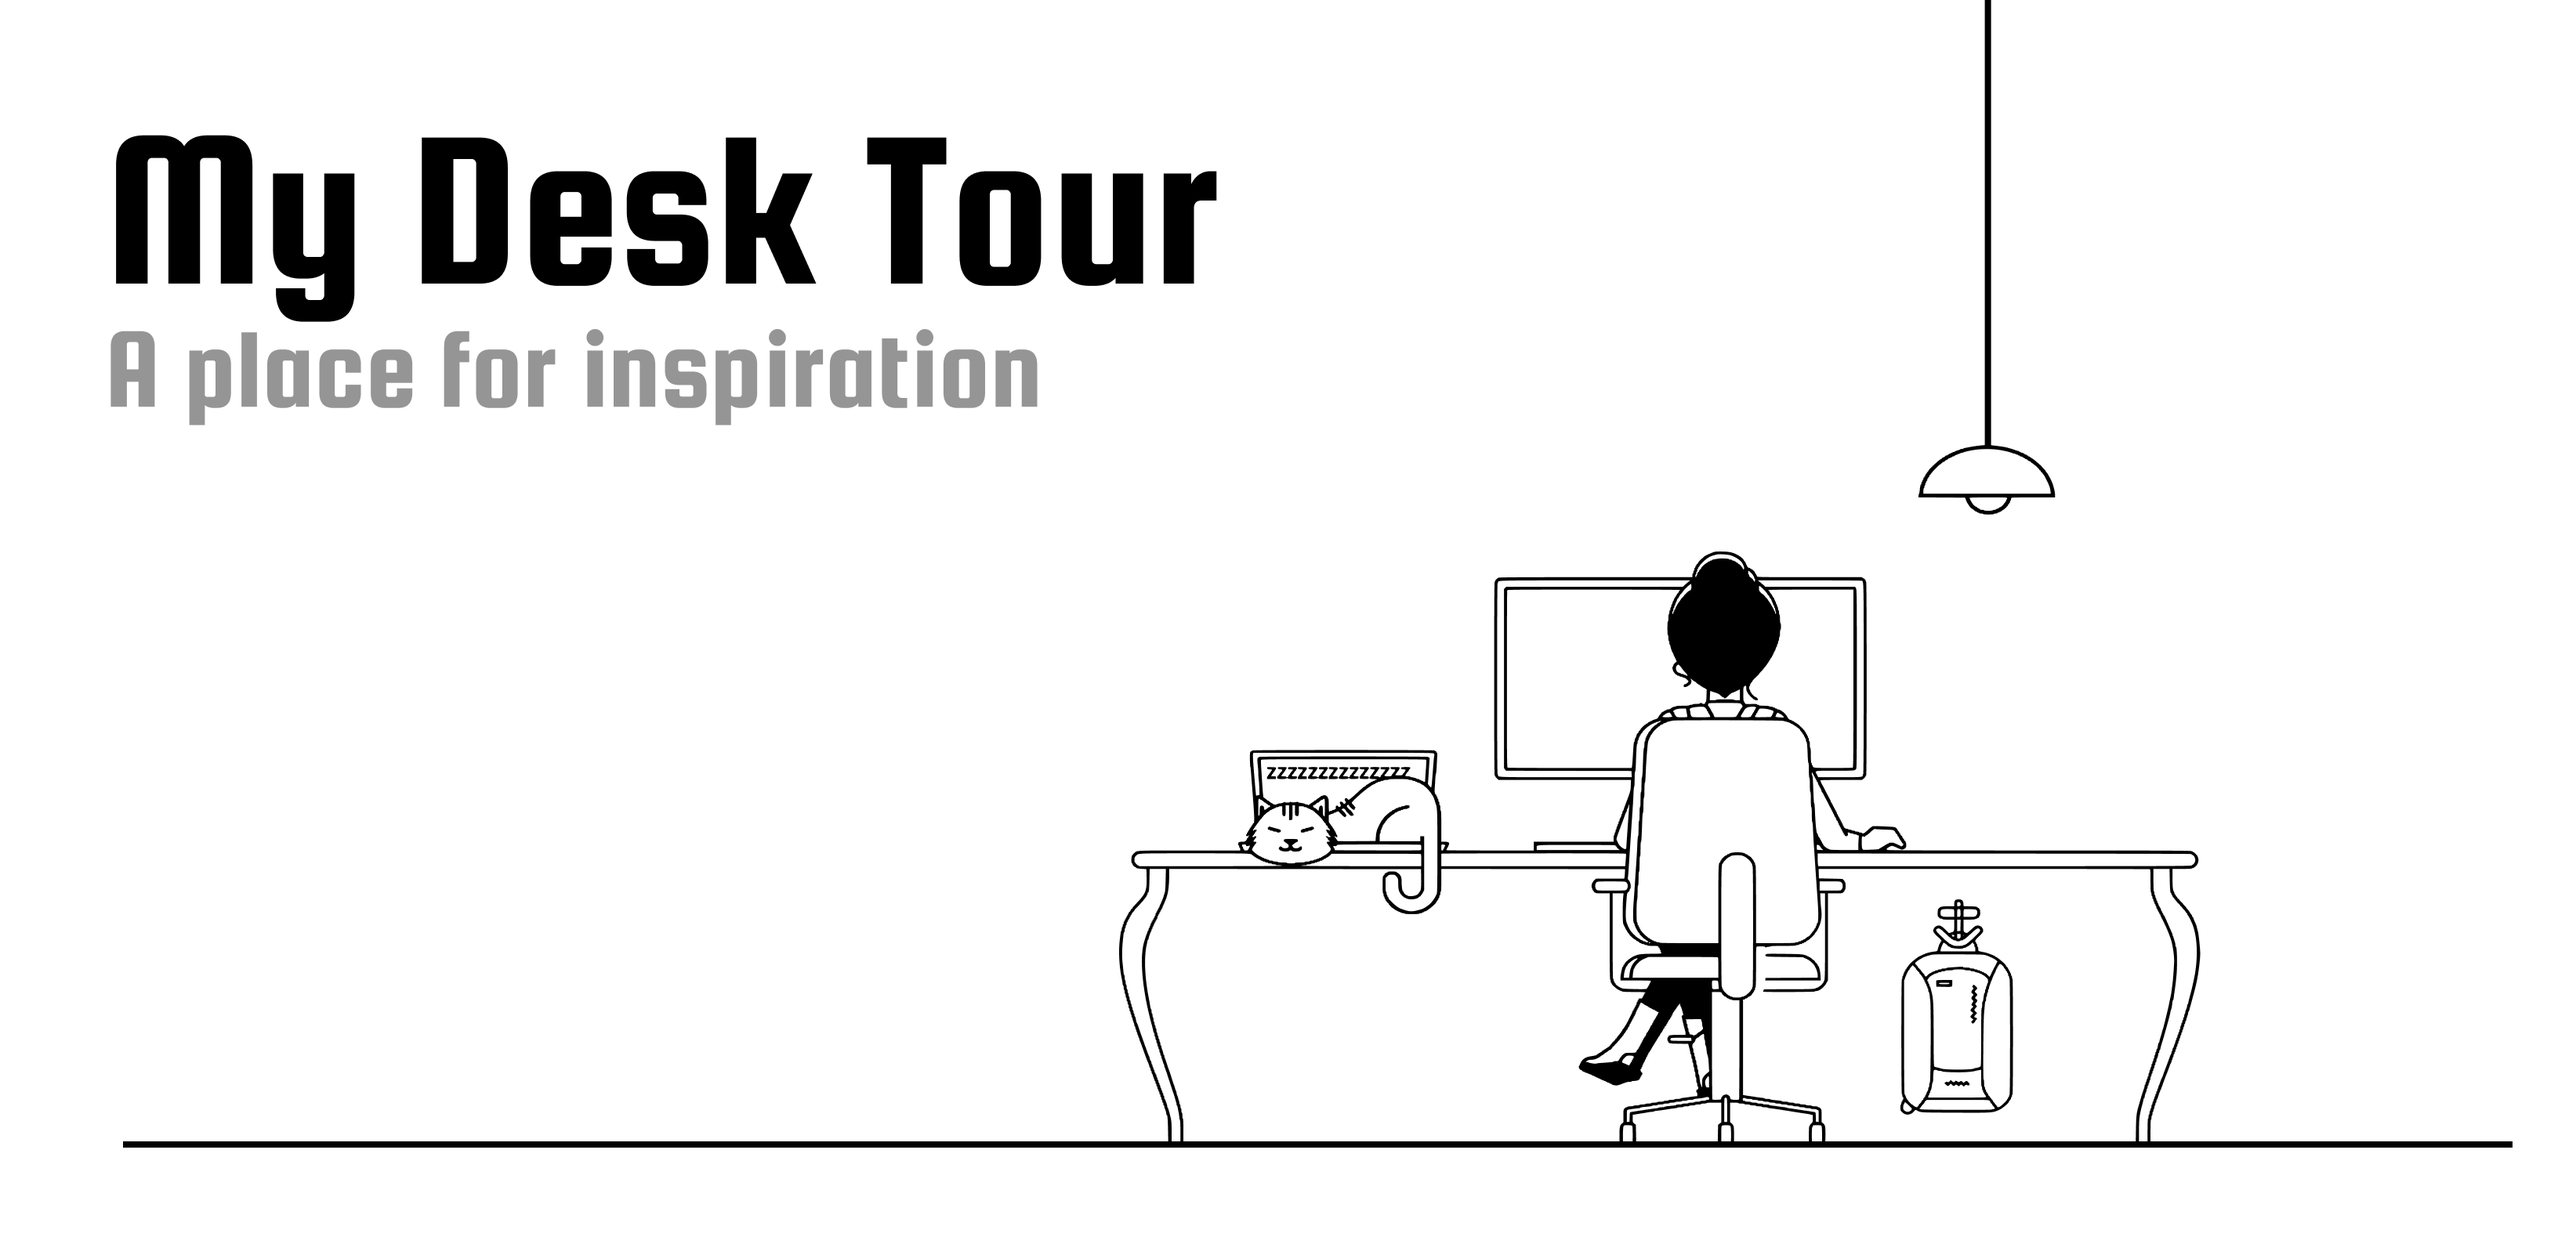
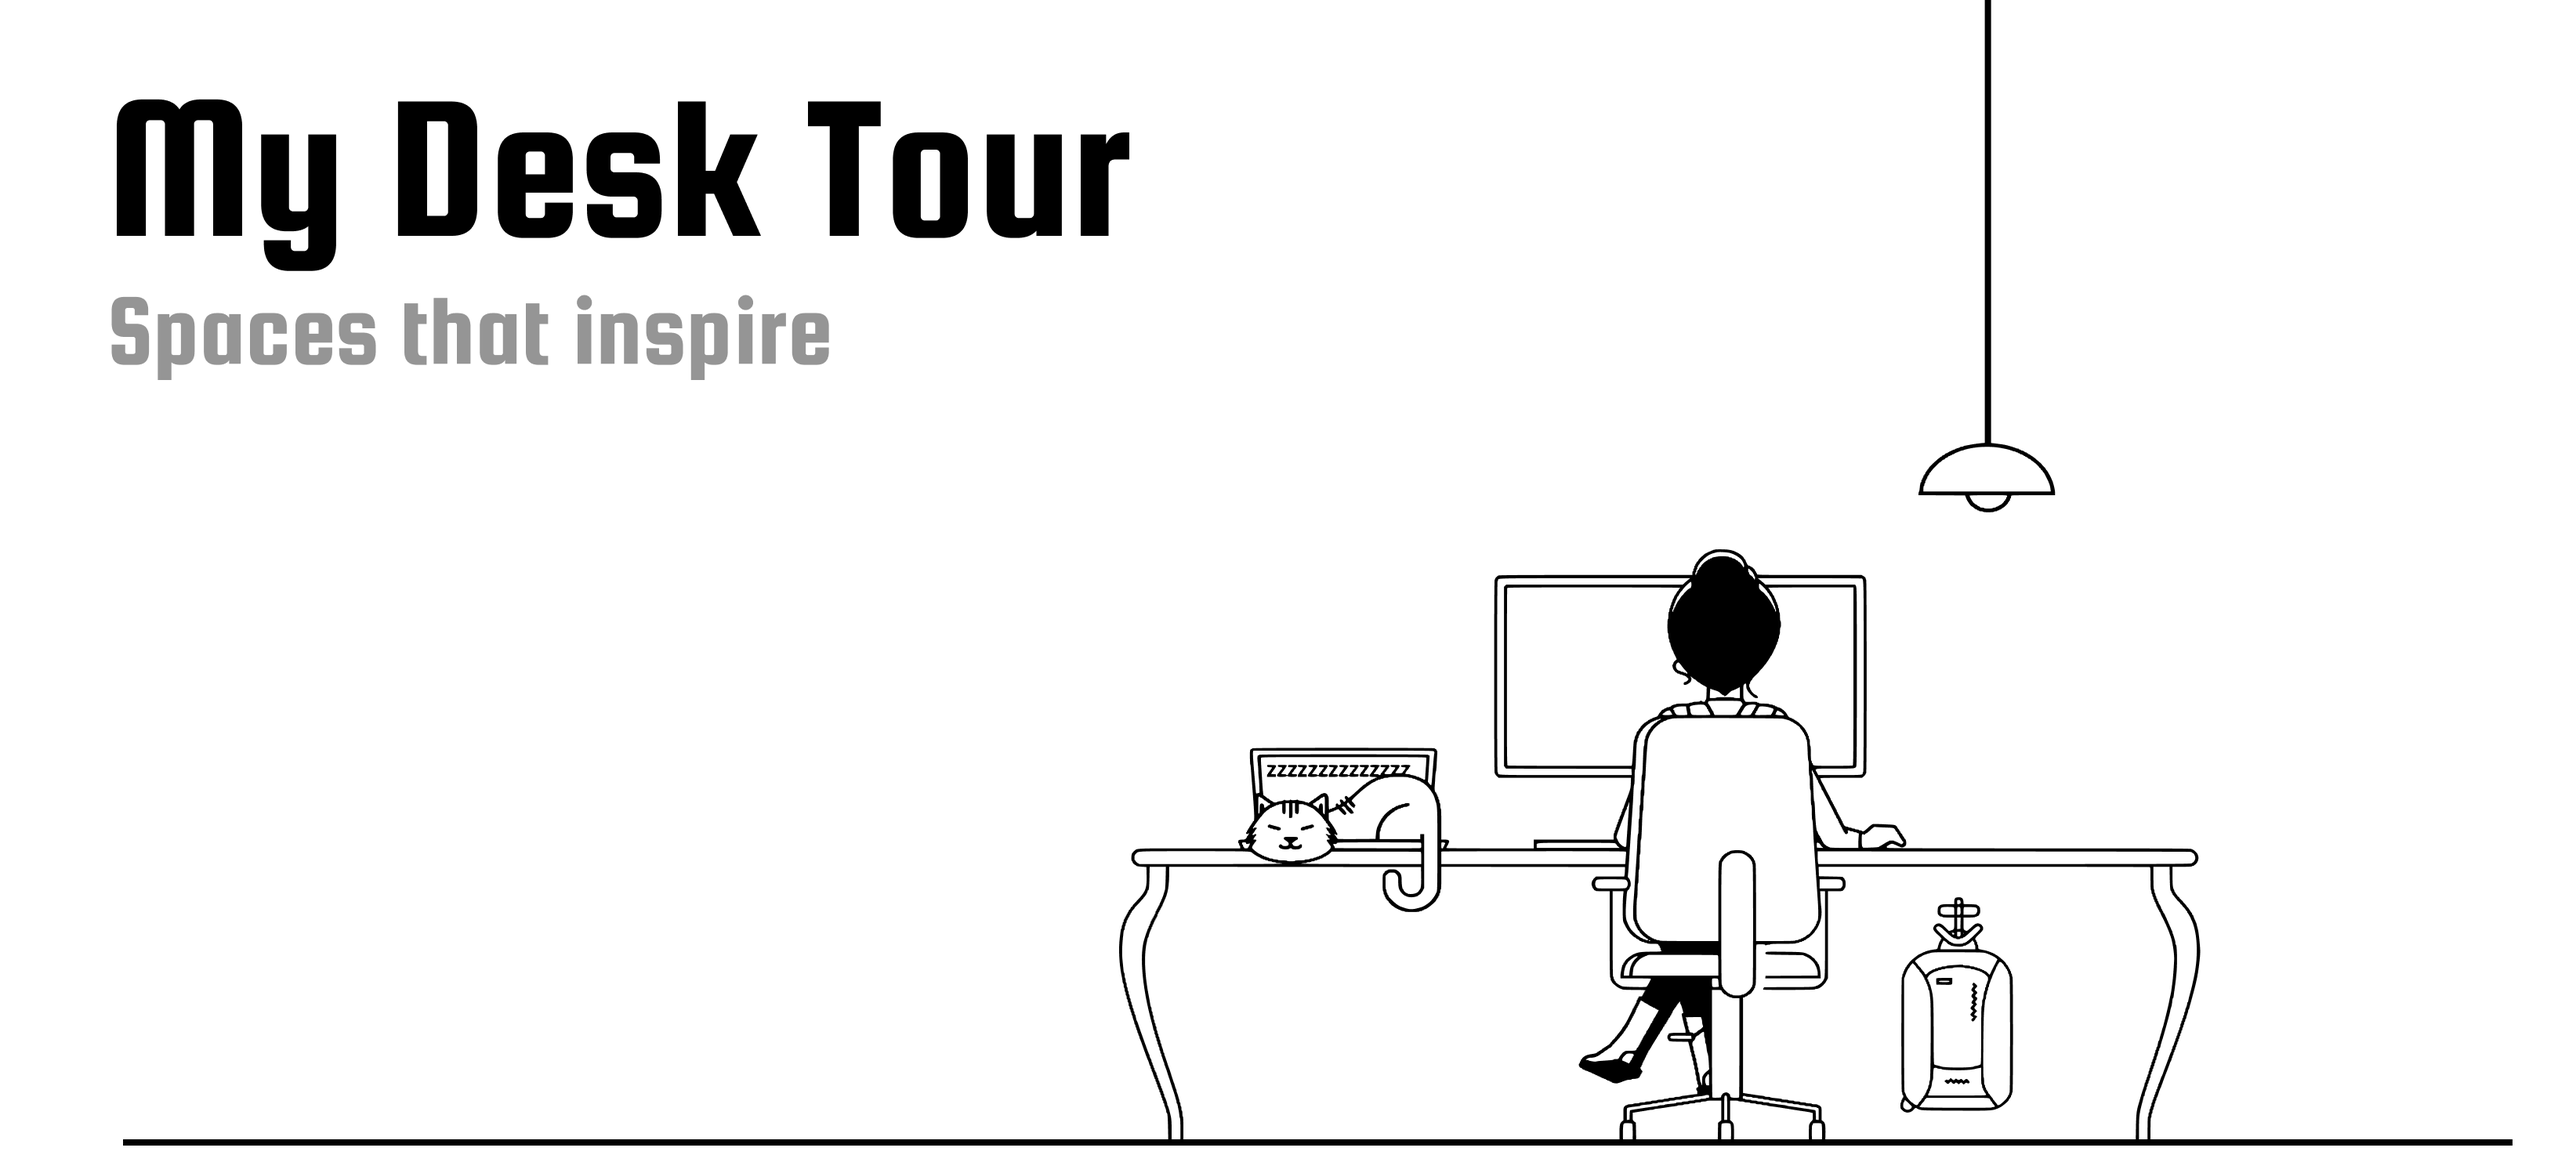
about page description and some minor ui changes

Changed region(s): [[0.0621, 0.4302, 0.962, 0.9833], [0.031, 0.0615, 0.4965, 0.338], [0.7448, 0.3687, 0.8068, 0.4302]]

diff --git a/src/pages/About/About.js b/src/pages/About/About.js
@@ -5,33 +5,23 @@ export default function About() {
     return (
         <div className="body">
             <div className="About">
-            <p>
-            Lorem ipsum dolor sit amet, consectetur adipiscing elit. Vestibulum tincidunt, justo non fringilla vulputate, elit quam faucibus mi, non gravida sapien augue sed metus.
-            Nullam tincidunt urna ante, sed elementum erat tincidunt eget. Etiam mattis sed risus sed cursus. Pellentesque laoreet eros arcu, quis efficitur nunc blandit nec. 
-            Proin ut libero ut metus fringilla efficitur eget in nibh. Etiam fringilla, nulla nec pretium luctus, nunc est consectetur tellus, ac finibus turpis nibh ac neque. 
-            Proin vitae aliquet nunc, a egestas turpis. Morbi consectetur vestibulum leo a consectetur. Quisque pulvinar tellus sem, nec facilisis tellus tincidunt nec. 
-            Vivamus eu metus magna. In ut molestie massa, ut laoreet felis. Integer eleifend porta erat a euismod. Phasellus gravida, ipsum in mattis commodo, nibh leo dignissim quam, 
-            eget posuere ex libero vitae nulla. Nam sapien neque, viverra a varius sit amet, finibus vel diam. Phasellus commodo rutrum odio, id sollicitudin magna tincidunt eget. 
-            Mauris in velit vitae sapien ultricies convallis.
-            </p>
-            <p>
-            Donec at tincidunt turpis, et dictum erat. Nunc et eros varius, dictum diam a, congue metus. Mauris eget fringilla diam. Pellentesque dictum tincidunt ex in tincidunt. 
-            Vivamus sollicitudin tristique sem, ac tristique tortor laoreet in. Proin semper mauris nunc. Cras ac dui a mi porta pharetra quis eu ex.
-            </p>
-
-            <p>
-            Vivamus iaculis et nisl quis interdum. Fusce pretium tortor purus, ut iaculis libero sodales vitae. Praesent finibus mauris nulla, quis tempor nibh convallis eu. 
-            Proin nec hendrerit est. Sed ut bibendum urna. Donec sagittis iaculis nisl ut pulvinar. Phasellus dapibus pharetra odio, ac egestas orci molestie vel. 
-            Phasellus turpis erat, tempus at imperdiet id, egestas in quam. Ut cursus feugiat dui, ac dapibus justo euismod id. Maecenas volutpat vehicula neque, in sodales augue vehicula nec. Pellentesque tincidunt porta mauris nec tristique. Sed ornare congue blandit.
-            </p>
-
-            <p>
-            Suspendisse a risus nibh. Donec in sagittis est, a facilisis magna. Pellentesque blandit sollicitudin lacinia. Donec accumsan vitae massa ut blandit. 
-            Quisque egestas malesuada ante a fermentum. Sed quis facilisis massa. Quisque tempor pretium leo, ut sollicitudin arcu dignissim in. 
-            Quisque non fermentum odio, ac vehicula odio. Aenean dictum felis ut sem interdum, ultrices condimentum orci scelerisque. 
-            Aenean at nibh id urna rhoncus volutpat sed nec lectus. Donec nec mauris eu lorem efficitur lacinia vitae in diam.
-            Praesent sagittis risus nec metus facilisis vestibulum at a urna. Morbi varius enim leo.
-            </p>
+                <p>As of July 2020, </p>
+                <p>85% of employees are now working from home,</p>
+                <p>5% of companies allow for fully remote work,</p>
+                <p>99% of professional/amateur gamers have a home setup,</p>
+                <p>95% of students are attending school remote,</p>
+                <p>and 5% of companies allow for fully remote work.</p>
+                <p>100% of the above statements are complete guesses, but I'd imagine its somewhere close to reality :). Please don't quote me.</p>
+                <p>The point is, we are spending a lot of time at our desks these days.</p>
+                <p>There are many reasons to optimize our desk setup - health/ergonomics, productivity, performance, to name a few.</p>
+                <p>There are thousands of sites that give product recommendations, but they're not as genuine as hearing 
+                    about a product from your friend, or from somone who has actually used the product for a while.</p>
+                <p>It's why <a href="https://yourstack.com/">YourStack</a> is so cool.</p>
+                <p>There are many similar sites to this one: <a href="https://deskhunt.com/">DeskHunt</a>, <a href="https://mysetup.co/">MySetup</a>,
+                    <a href="https://kit.co/"> Kit.co</a>.</p>
+                <p>That being said, I'm still not quite sure what the differentiating factor for this site will be haha.</p>
+                <br/>
+                <p>Please let me know what you think about this site at caimjonathan(at)gmail.com</p>
             </div>
         </div>
     );

diff --git a/src/pages/Home/Home.js b/src/pages/Home/Home.js
@@ -25,7 +25,7 @@ export default function Home() {
                     {featuredProducts.map((product, i) => <ProductCard key={i} product={product}/>)}
                 </div>
                 <h3 className="HomeSubtitle">Share your desk!</h3>
-                {/* <DeskComponent desk={singleDesk}/> */}
+                <br/>
             </div>
         </div>
     );

diff --git a/src/pages/Charts/Charts.js b/src/pages/Charts/Charts.js
@@ -12,6 +12,7 @@ export default function Charts() {
 
     return (
         <div className="body">
+            <p>NOTE: none of the data is actually being ranked, but I imagine this could be a cool feature later...</p>
             <p>Top Desks</p>
             <DeskTable desks={topDesks}/>
             <p>Top Products</p>
